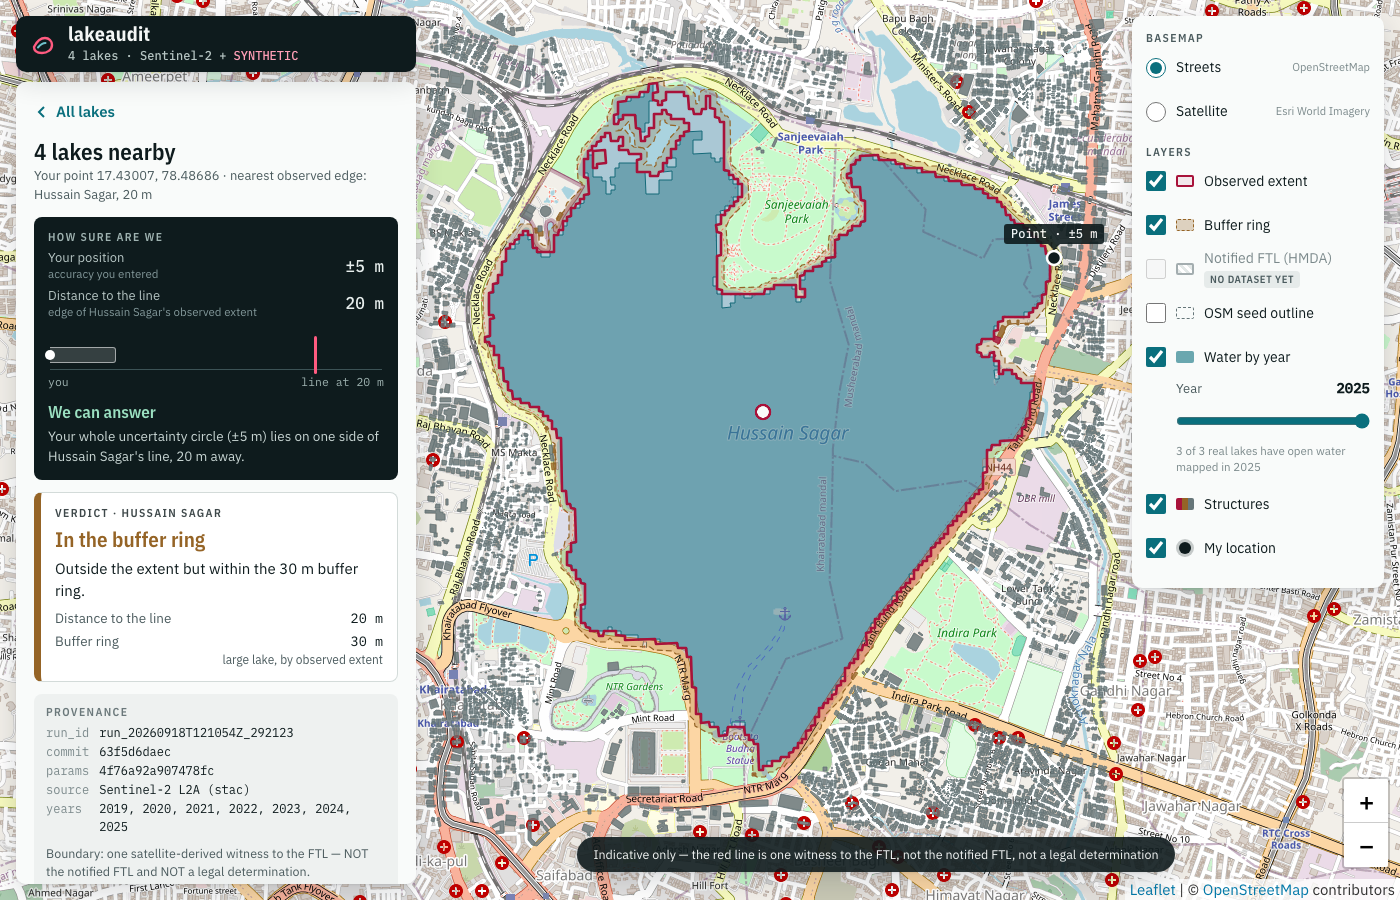
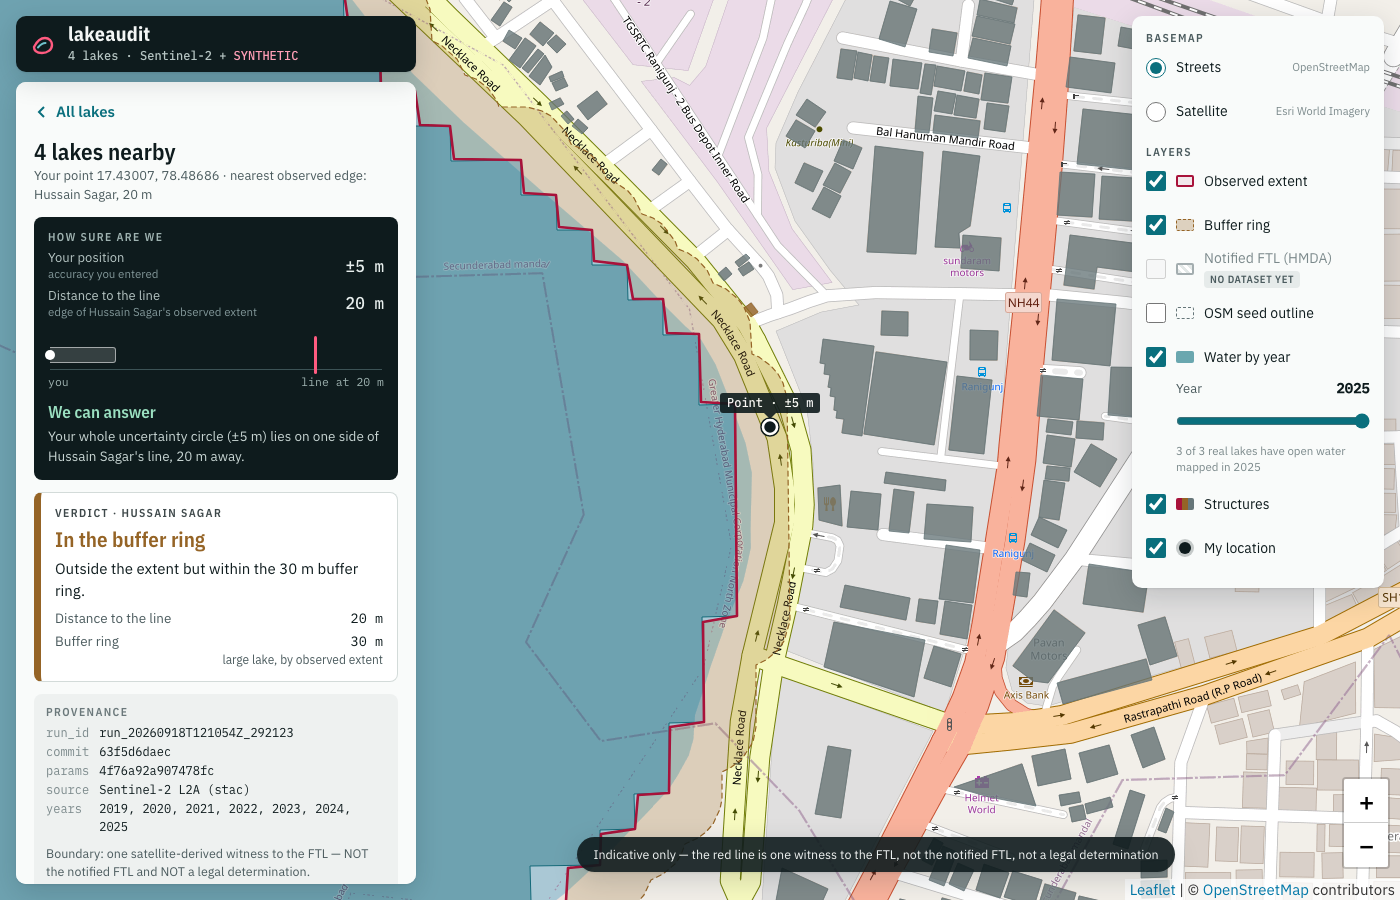
app: zoom to the line when the point is within 300 m of it
At lake-wide zoom a point 20 m outside the extent just looked like it was on the
shore; the thing the verdict is about was invisible. Near the line the map now fits
a box of max(3x distance, 3x accuracy, 3x buffer, 90 m) around the point, so the
uncertainty circle, red line and buffer ring are legible (and a refusal shows the
circle crossing the line). Far points keep the you-plus-lake view.

Walkthrough: zoom checks for both cases, label check on the point, and screenshots
wait for every basemap tile to load.

diff --git a/lakeaudit/static/app.html b/lakeaudit/static/app.html
@@ -687,10 +687,17 @@ function renderResult() {
     ${provHTML({...lk.provenance}, `<p>Boundary: ${esc(lk.boundary_is)}.</p><p>${esc(lk.disclaimer)}</p>`)}
     <h3 class="h2">All processed lakes, nearest edge first</h3>
     <ul class="list">${list}</ul>`;
-  const b = L.latLngBounds([[u.lat, u.lon]]).extend(L.latLng(u.lat, u.lon).toBounds(acc * 2));
-  if (S.lay[c.lake_id]) b.extend(S.lay[c.lake_id].bounds);
-  // phone: the "You" label is centred over the dot and the lake label hangs right; keep both on screen
-  fly(b, 17, phone() ? {tl: [60, 118], br: [160, sheetH() + 16]} : {});
+  const pt = L.latLng(u.lat, u.lon);
+  if (d <= 300) {
+    // near the line the answer is about metres: show the point, its uncertainty circle, the line and the ring
+    const r = Math.max(3 * d, 3 * acc, 3 * (lk.buffer_width_m || 0), 90);
+    fly(pt.toBounds(2 * r), 18, phone() ? {tl: [40, 118], br: [40, sheetH() + 16]} : {});
+  } else {
+    const b = L.latLngBounds([pt]).extend(pt.toBounds(acc * 2));
+    if (S.lay[c.lake_id]) b.extend(S.lay[c.lake_id].bounds);
+    // phone: the "You" label is centred over the dot and the lake label hangs right; keep both on screen
+    fly(b, 17, phone() ? {tl: [60, 118], br: [160, sheetH() + 16]} : {});
+  }
 }
 
 /* ------------------------------------------------------------ manual entry + placer */

diff --git a/scripts/ui_walkthrough.py b/scripts/ui_walkthrough.py
@@ -41,7 +41,13 @@ def walk(p, base: str, out: Path, name: str, opts: dict) -> list[str]:
 
     def shot(tag: str):
         nonlocal n
-        page.wait_for_timeout(1600)                     # flyTo animation + tiles
+        page.wait_for_timeout(1600)                     # flyTo animation
+        try:                                            # then every basemap tile at the new zoom
+            page.wait_for_function("() => [...document.querySelectorAll('.leaflet-tile-container img')]"
+                                   ".every(i => i.classList.contains('leaflet-tile-loaded'))", timeout=15000)
+        except Exception:
+            print(f"  (tiles still loading after 15 s for {tag}; screenshot taken anyway)")
+        page.wait_for_timeout(400)
         n += 1
         path = out / f"{name}-{n:02d}-{tag}.png"
         page.screenshot(path=str(path))
@@ -89,6 +95,7 @@ def walk(p, base: str, out: Path, name: str, opts: dict) -> list[str]:
     shot("located")
     nearest = page.evaluate("lakeaudit.state.byId[lakeaudit.state.lookup.lake_id].name")
     labels_inside("located", ["You", nearest])
+    check(page.evaluate("lakeaudit.map.getZoom()") < 16, "located (1.48 km away): map should show you and the whole lake")
 
     page.click("#vResult [data-back]")
     if page.get_attribute("#manual", "open") is None:
@@ -101,6 +108,8 @@ def walk(p, base: str, out: Path, name: str, opts: dict) -> list[str]:
     check("±40 m" in page.inner_text("#resBody .card.refusal"), "manual 40 m: refusal reason missing")
     check(page.locator('[data-res="retry"]').count() == 1 and page.locator('[data-res="place"]').count() == 1, "manual 40 m: refusal buttons missing")
     shot("manual-40m-refusal")
+    check(page.evaluate("lakeaudit.map.getZoom()") >= 16, "manual 40 m (20 m from line): map should zoom in to the line")
+    labels_inside("manual 40 m", ["Point"])
 
     page.click("#vResult [data-back]")
     page.fill("#inAcc", "5")
@@ -108,6 +117,8 @@ def walk(p, base: str, out: Path, name: str, opts: dict) -> list[str]:
     page.wait_for_selector("#resBody .card.verdict", timeout=20000)
     check(page.locator("#resBody .card.verdict.z-in_buffer").count() == 1, "manual 5 m: expected in_buffer verdict")
     shot("manual-5m-verdict")
+    check(page.evaluate("lakeaudit.map.getZoom()") >= 16, "manual 5 m (20 m from line): map should zoom in to the line")
+    labels_inside("manual 5 m", ["Point"])
 
     if name == "phone":
         page.click("#layersToggle")
